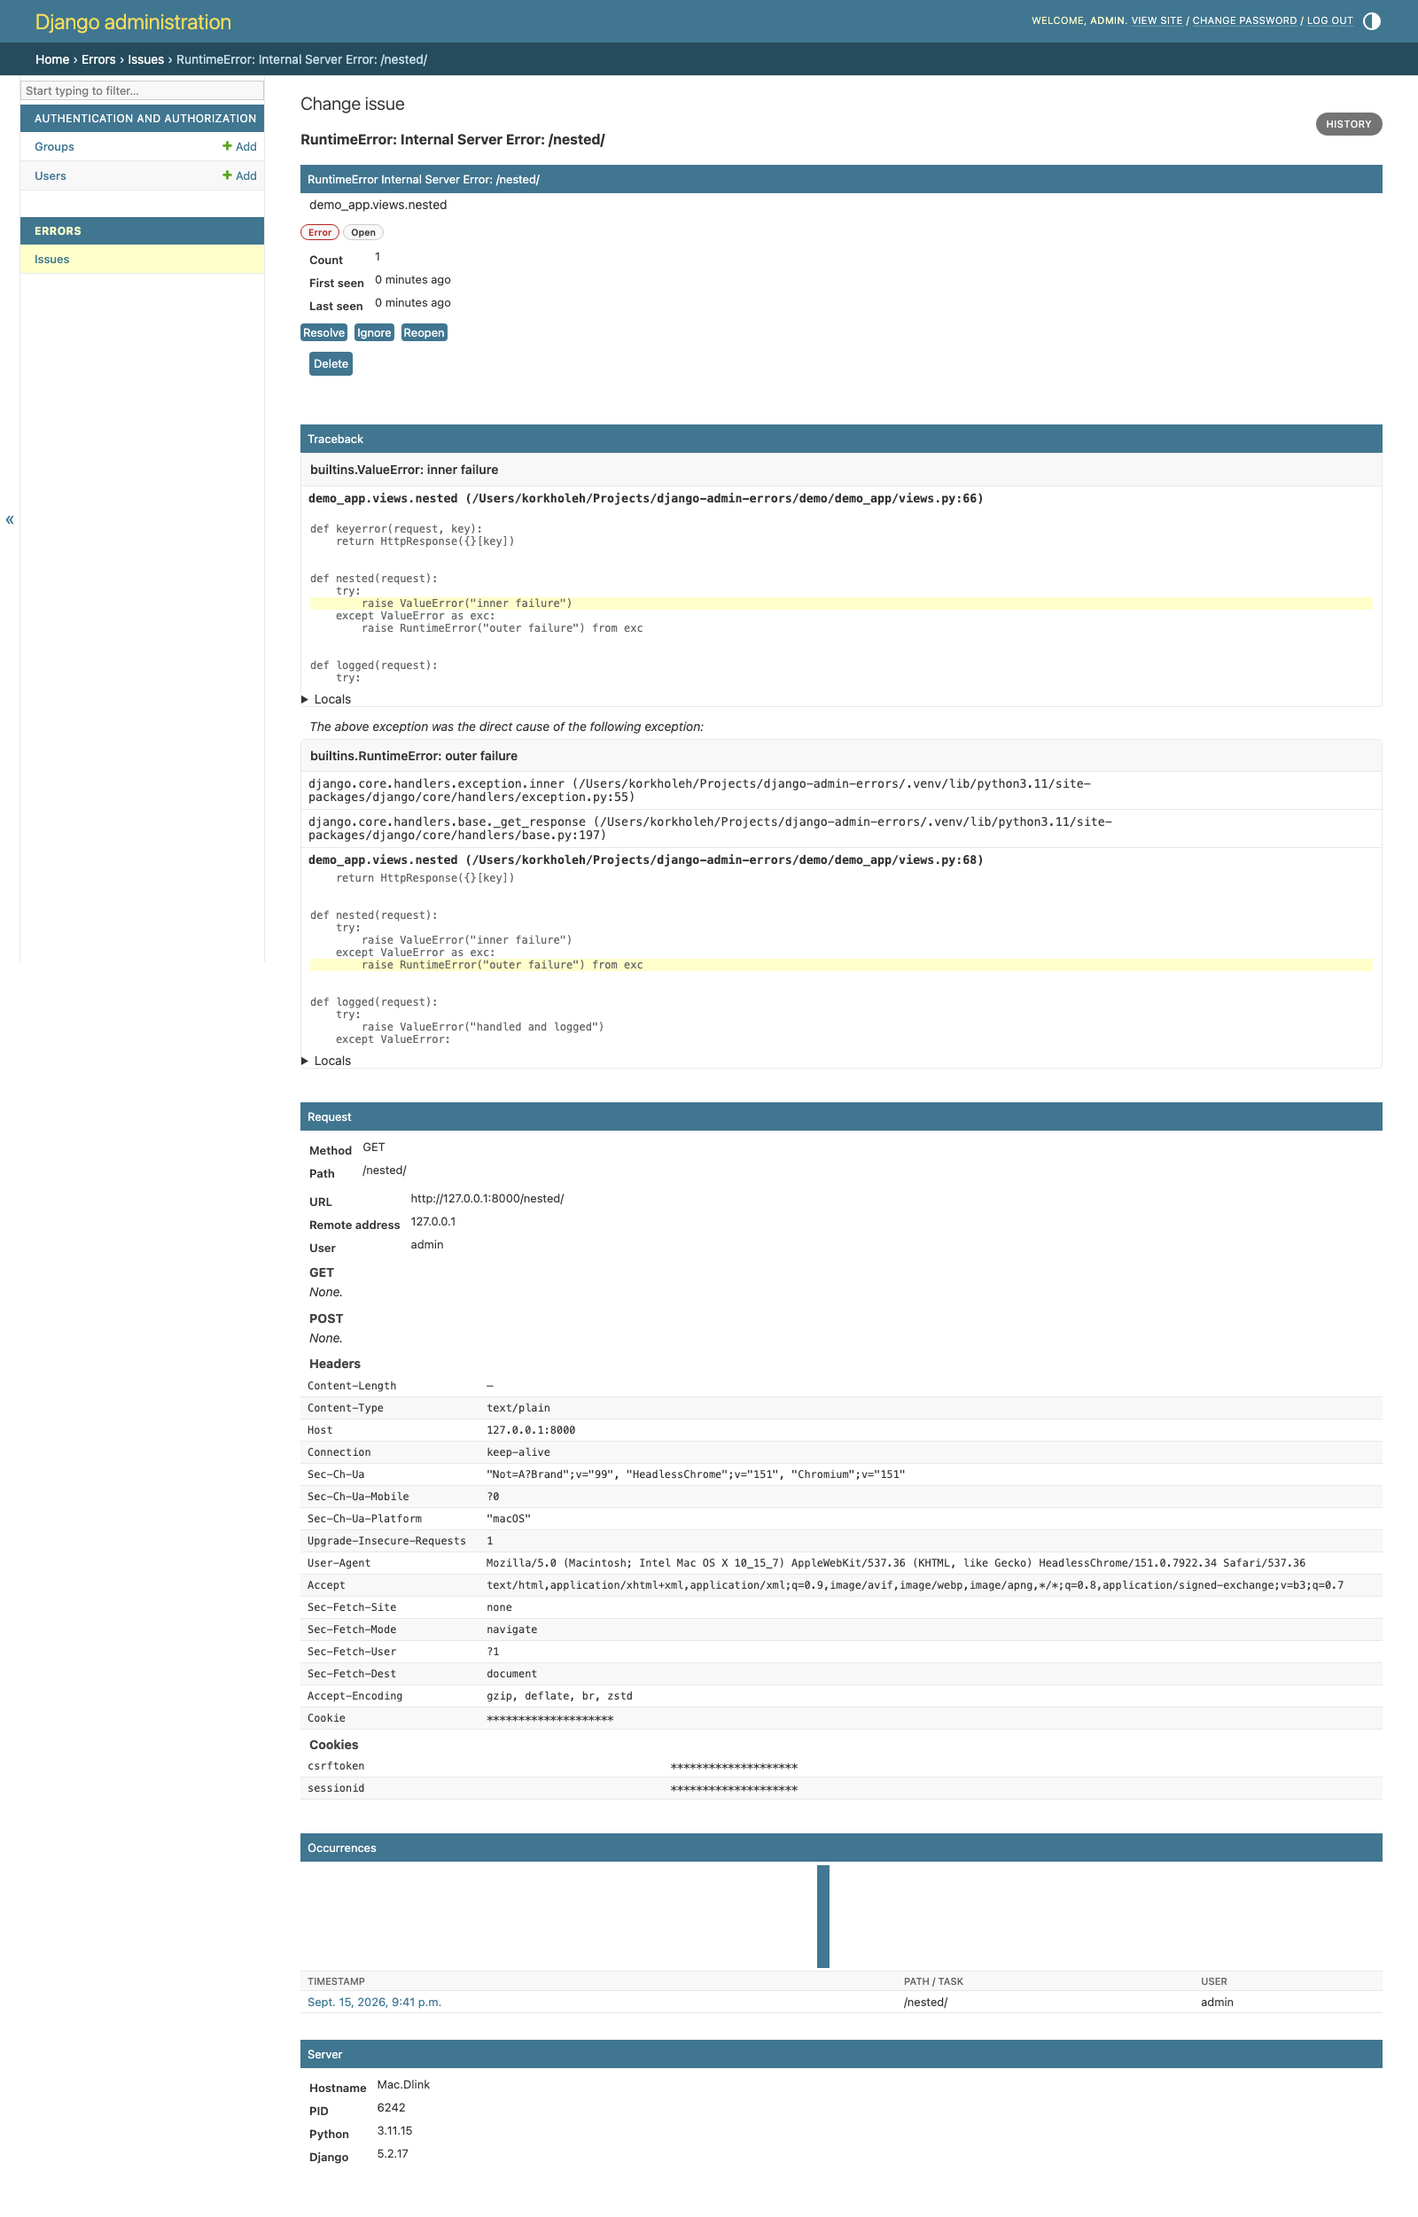
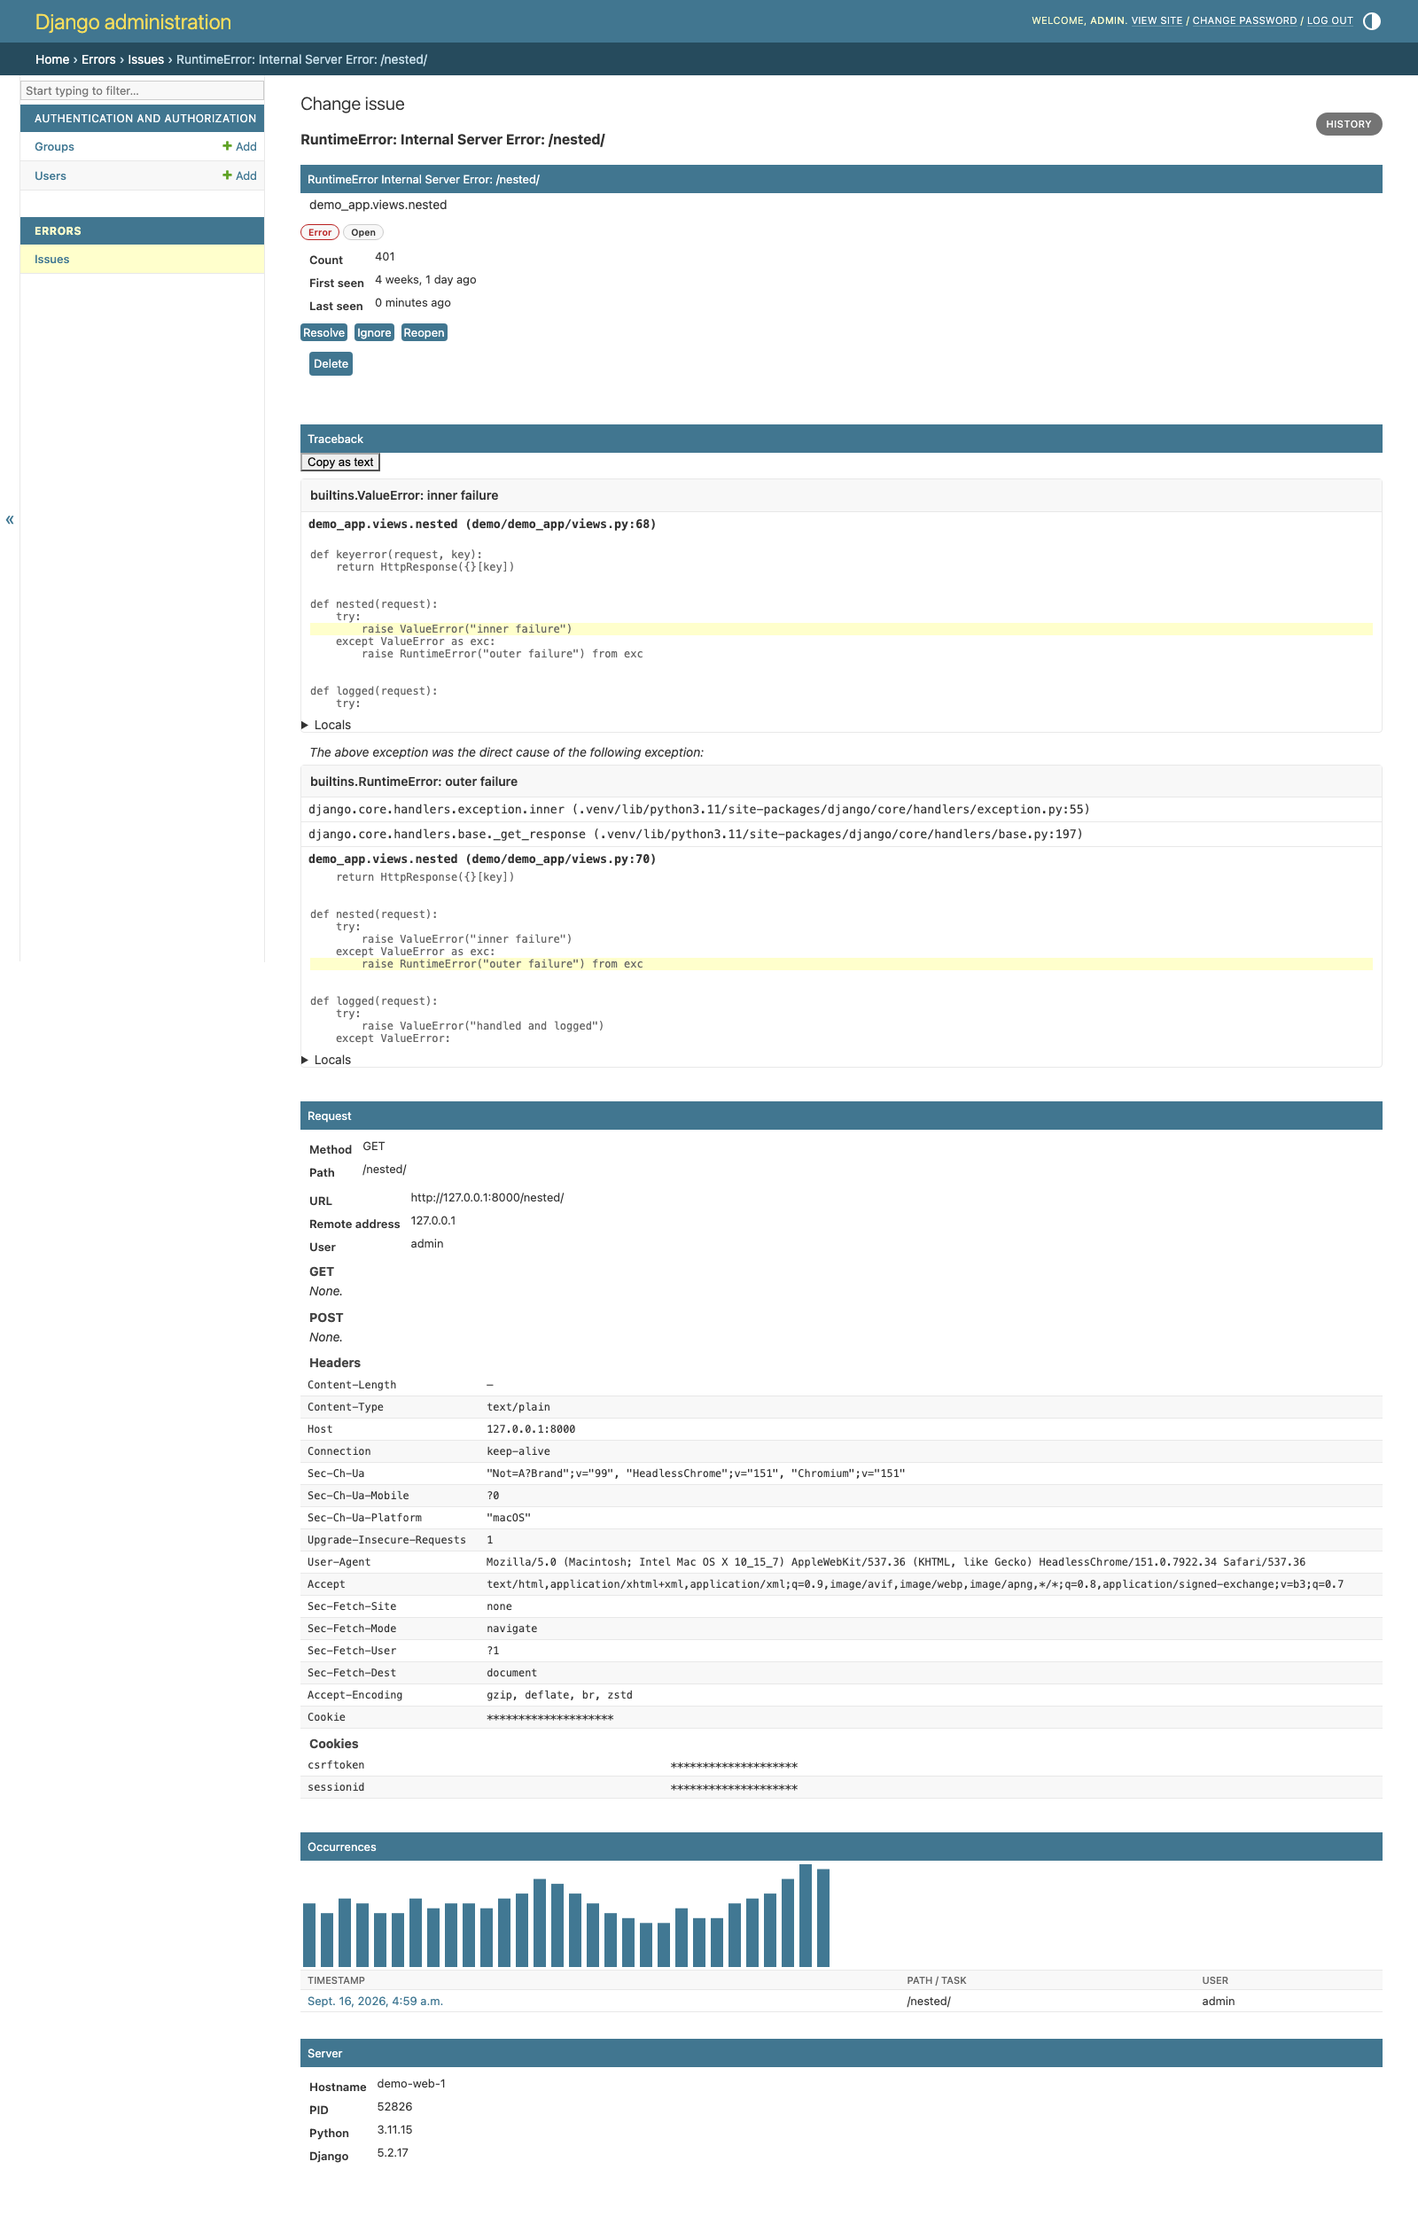
fix(demo): make the README screenshots worth showing
Five problems with the four tracked images, all in how they were captured:

1. The detail page was shot on a minutes-old /nested/ issue, so its
   occurrence chart was a single bar in an empty 30-day field — the one
   section that most needs data had none. demo_seed grows a new
   --backfill-history ISSUE_ID option that gives an existing issue a --days
   history of daily counts and leaves its events, payload and status alone,
   so the same issue keeps its chained exception and its scrubbed request
   block while gaining a chart with something in it.

2. Tracebacks showed absolute paths, which on any developer machine means a
   home directory and a username, and the Server block showed the machine's
   own hostname. The demo now sets BEFORE_SEND to demo_project.payload_tidy,
   which rewrites frame filenames under the repository root as relative ones
   and pins the hostname to demo-web-1. This is the demo using the library's
   documented extension point on itself, so it doubles as the worked example
   of that hook; it runs after the frames are built, so in_app is still
   decided from the real paths.

3. Light and dark were captured from two different moments, with different
   counts, different totals and a different top row — so the pair could not
   be read as one page in two themes. The data-changing steps now run once,
   before either theme, and each theme pass only navigates and screenshots.
[…]

diff --git a/e2e/test_screenshots.py b/e2e/test_screenshots.py
@@ -1,12 +1,29 @@
 """T14 (PLAN.md phase 8): README screenshots of the admin's Errors section, light and dark.
 
 Not a `[qa:...]`-tagged correctness case — this test's job is to produce
-`docs/img/issue-{list,detail}-{light,dark}.png` from the real seeded demo, driving `/nested/` (a
-chained exception, so the detail screenshot shows both blocks and the separator) and `/sensitive/`
-(so the list has a second, distinct issue) before capturing. The admin's default theme is "auto";
-a Playwright browser context's `color_scheme` flips it without touching any UI control.
+`docs/img/issue-{list,detail}-{light,dark}.png` from the real seeded demo.
+
+Three things the first version of this file got wrong, and what it does instead:
+
+* **One state, two themes.** The data-changing part (hitting `/nested/` and `/sensitive/`, then
+  backfilling the history) now runs once, before either theme is captured, and each theme pass
+  only navigates and screenshots. The light and dark pairs are the same page in two skins, which
+  is the entire point of showing both, rather than two separate moments with different counts.
+
+* **A detail page worth showing.** `/nested/` gives a chained exception (both blocks and the
+  "direct cause" separator) and a real request block with scrubbed cookies, but an issue that is
+  minutes old can only draw a single bar in the occurrence chart. `demo_seed --backfill-history`
+  gives that same issue a 30-day history without touching its events or payload, so one
+  screenshot shows the traceback, the scrubbed request *and* a chart with something in it.
+
+* **A list that fits a README.** `full_page=True` captured all 44 rows — 3500px tall, which a
+  README renders as an unreadable sliver. The list is now captured at the viewport, which holds
+  the summary cards, the filters and a dozen rows.
 """
 
+import os
+import subprocess
+import sys
 from pathlib import Path
 from urllib.parse import urljoin
 
@@ -16,21 +33,30 @@ pytest.importorskip("playwright.sync_api")
 
 from e2e.conftest import login, wait_until
 
-DOCS_IMG_DIR = Path(__file__).resolve().parent.parent / "docs" / "img"
+REPO_ROOT = Path(__file__).resolve().parent.parent
+DOCS_IMG_DIR = REPO_ROOT / "docs" / "img"
+
+# The admin's own `.results` wrapper is `overflow-x: auto`: at the default 1280px viewport the
+# issue table (with the Status/Trend columns) is wider than that wrapper, so a screenshot silently
+# clips them. 1600px is wide enough for the table to render without internal scrolling (measured
+# against the seeded demo). 1000px of height holds the summary cards, the search row and about a
+# dozen issues — enough to show what the page is, short enough to read in a README.
+VIEWPORT = {"width": 1600, "height": 1000}
+HISTORY_DAYS = 30
 
 
-def _capture_theme(browser, base_url: str, color_scheme: str) -> None:
-    # The admin's own `.results` wrapper is `overflow-x: auto`: at the default 1280px viewport the
-    # issue table (with the Status/Trend columns) is wider than that wrapper, so a `full_page`
-    # screenshot (which only extends the *vertical* capture) silently clips them. 1600px is wide
-    # enough for the table to render without internal scrolling (measured against the seeded demo).
-    viewport = {"width": 1600, "height": 1000}
-    context = browser.new_context(color_scheme=color_scheme, viewport=viewport)
+def _prepare_data(browser, base_url: str) -> str:
+    """Create the issues both themes are captured from. Returns the detail page's path."""
+    context = browser.new_context(viewport=VIEWPORT)
     page = context.new_page()
     try:
         login(page, base_url, "admin", "admin")
 
+        # /nested/ raises RuntimeError from an inner ValueError: the detail screenshot gets both
+        # exception blocks and the "The above exception was the direct cause" separator.
         page.goto(f"{base_url}/nested/")
+        # /sensitive/ posts a password, a token and an Authorization header, so the list has a
+        # second recent issue and the demo has a scrubbing case on screen.
         page.goto(f"{base_url}/sensitive/")
         page.fill('input[name="username"]', "demo-user")
         page.fill('input[name="password"]', "demo-password")
@@ -44,12 +70,45 @@ def _capture_theme(browser, base_url: str, color_scheme: str) -> None:
             lambda p: p.locator("#result_list tbody tr").count() >= 1,
         )
 
-        page.goto(list_url)
-        page.screenshot(path=str(DOCS_IMG_DIR / f"issue-list-{color_scheme}.png"), full_page=True)
-
         page.goto(f"{list_url}?q=nested")
-        href = page.locator("a.ae-issue-cell").first.get_attribute("href")
-        page.goto(urljoin(f"{base_url}/", href))
+        detail_path = page.locator("a.ae-issue-cell").first.get_attribute("href")
+    finally:
+        context.close()
+
+    issue_id = int(detail_path.rstrip("/").split("/")[-2])
+    # pytest-django exports DJANGO_SETTINGS_MODULE=tests.settings, and `demo/manage.py` only
+    # `setdefault`s its own, so an inherited environment would point this command at the test
+    # settings (and their database) instead of the demo's.
+    env = {**os.environ, "DJANGO_SETTINGS_MODULE": "demo_project.settings"}
+    subprocess.run(
+        [
+            sys.executable,
+            "demo/manage.py",
+            "demo_seed",
+            "--backfill-history",
+            str(issue_id),
+            "--days",
+            str(HISTORY_DAYS),
+        ],
+        cwd=REPO_ROOT,
+        env=env,
+        check=True,
+        capture_output=True,
+        text=True,
+    )
+    return detail_path
+
+
+def _capture_theme(browser, base_url: str, detail_path: str, color_scheme: str) -> None:
+    context = browser.new_context(color_scheme=color_scheme, viewport=VIEWPORT)
+    page = context.new_page()
+    try:
+        login(page, base_url, "admin", "admin")
+
+        page.goto(f"{base_url}/admin/admin_errors/issue/")
+        page.screenshot(path=str(DOCS_IMG_DIR / f"issue-list-{color_scheme}.png"))
+
+        page.goto(urljoin(f"{base_url}/", detail_path))
         page.screenshot(path=str(DOCS_IMG_DIR / f"issue-detail-{color_scheme}.png"), full_page=True)
     finally:
         context.close()
@@ -60,8 +119,9 @@ def test_generates_light_and_dark_screenshots(browser, base_url, server_availabl
     """Produces the four README screenshots; look at them and record the visual check."""
     DOCS_IMG_DIR.mkdir(parents=True, exist_ok=True)
 
+    detail_path = _prepare_data(browser, base_url)
     for color_scheme in ("light", "dark"):
-        _capture_theme(browser, base_url, color_scheme)
+        _capture_theme(browser, base_url, detail_path, color_scheme)
 
     for name in (
         "issue-list-light.png",

diff --git a/demo/demo_app/management/commands/demo_seed.py b/demo/demo_app/management/commands/demo_seed.py
@@ -97,11 +97,27 @@ class Command(BaseCommand):
         parser.add_argument(
             "--reset", action="store_true", help="Delete existing admin_errors rows first."
         )
+        parser.add_argument(
+            "--backfill-history",
+            type=int,
+            default=None,
+            metavar="ISSUE_ID",
+            help=(
+                "Give one existing issue a --days history of daily counts instead of seeding "
+                "new ones. Its events, payload and status are left alone, so an issue captured "
+                "from a real request keeps its request context and traceback while gaining the "
+                "occurrence chart a day-old issue cannot have."
+            ),
+        )
 
     def handle(self, *args: Any, **options: Any) -> None:
         n_issues = options["issues"]
         n_days = options["days"]
         alias = conf.DATABASE
+
+        if options["backfill_history"] is not None:
+            self._backfill_history(options["backfill_history"], n_days, alias)
+            return
 
         max_issues = len(_EXCEPTIONS) * len(_CULPRITS)
         if n_issues > max_issues:
@@ -189,6 +205,43 @@ class Command(BaseCommand):
         issue.count = total_count
         issue.status, issue.resolved_at = self._status_for(i, rng, first_seen, last_seen)
         issue.save(using=alias)
+
+    def _backfill_history(self, issue_id: int, n_days: int, alias: str) -> None:
+        """Give `issue_id` a `n_days` history of daily counts, leaving everything else intact.
+
+        `_seed_one` fabricates a whole issue; this only fabricates the part of one that time
+        alone can produce. `last_seen`, the stored events and the payload behind them are left
+        untouched, so an issue captured from a real request keeps its traceback, its scrubbed
+        request block and its place at the top of a `-last_seen` list while its occurrence chart
+        stops being the single bar a minutes-old issue can draw.
+        """
+        try:
+            issue = Issue.objects.using(alias).get(pk=issue_id)
+        except Issue.DoesNotExist:
+            raise CommandError(f"no issue with id {issue_id}") from None
+
+        rng = random.Random(_SEED)
+        last_date = issue.last_seen.date()
+        first_seen = timezone.make_aware(
+            datetime.datetime.combine(
+                last_date - datetime.timedelta(days=max(n_days - 1, 0)), datetime.time()
+            )
+        )
+
+        daily_counts = self._random_walk_daily_counts(rng, first_seen.date(), last_date)
+        IssueDailyCount.objects.using(alias).filter(issue=issue).delete()
+        IssueDailyCount.objects.using(alias).bulk_create(
+            IssueDailyCount(issue=issue, date=date, count=count)
+            for date, count in daily_counts.items()
+        )
+
+        issue.first_seen = first_seen
+        issue.count = sum(daily_counts.values())
+        issue.save(using=alias)
+        self.stdout.write(
+            f"backfilled {len(daily_counts)} day(s) onto issue {issue_id} "
+            f"({issue.exception_type}), count now {issue.count}"
+        )
 
     def _random_walk_daily_counts(
         self, rng: random.Random, start: datetime.date, end: datetime.date

diff --git a/demo/demo_project/payload_tidy.py b/demo/demo_project/payload_tidy.py
@@ -1,0 +1,54 @@
+"""`BEFORE_SEND` hook that makes the demo's payloads readable, and its screenshots portable.
+
+Frame filenames are absolute, so every traceback in the demo admin — and every README screenshot
+taken from it — carries the checkout's location, which on a developer machine means a home
+directory and a username. Nothing is hidden: the paths are rewritten relative to the repository
+root (`/Users/someone/src/django-admin-errors/demo/demo_app/views.py` becomes
+`demo/demo_app/views.py`, and a dependency becomes `.venv/lib/python3.11/site-packages/...`),
+which is also simply shorter to read.
+
+The server hostname is replaced for the same reason: `socket.gethostname()` is whatever the
+machine happens to be called, which is noise in a screenshot and differs on every machine the
+demo runs on. `DEMO_HOSTNAME` keeps that block stable and anonymous.
+
+This is not library behaviour, and `admin_errors` ships nothing like it: it is the demo using the
+documented `BEFORE_SEND` extension point (spec section 5) on itself, which doubles as the worked
+example of that hook. It runs after the frames are built, so `in_app` has already been decided
+from the real paths and the rewrite cannot change which frames the admin highlights
+(`admin_errors/capture.py`, `_apply_before_send`).
+"""
+
+from pathlib import Path
+from typing import Any
+
+REPO_ROOT = str(Path(__file__).resolve().parent.parent.parent) + "/"
+DEMO_HOSTNAME = "demo-web-1"
+
+
+def _shorten(filename: Any) -> Any:
+    if isinstance(filename, str) and filename.startswith(REPO_ROOT):
+        return filename[len(REPO_ROOT) :]
+    return filename
+
+
+def _shorten_frames(frames: Any) -> None:
+    if not isinstance(frames, list):
+        return
+    for frame in frames:
+        if isinstance(frame, dict) and "filename" in frame:
+            frame["filename"] = _shorten(frame["filename"])
+
+
+def tidy_payload(payload: dict, hint: dict) -> dict:
+    """Shorten absolute frame filenames and pin the reported hostname."""
+    _shorten_frames(payload.get("frames"))
+    exception = payload.get("exception")
+    if isinstance(exception, dict):
+        for link in exception.get("chain") or []:
+            if isinstance(link, dict):
+                _shorten_frames(link.get("frames"))
+
+    server = payload.get("server")
+    if isinstance(server, dict) and "hostname" in server:
+        server["hostname"] = DEMO_HOSTNAME
+    return payload

diff --git a/demo/demo_project/settings.py b/demo/demo_project/settings.py
@@ -114,6 +114,9 @@ ADMIN_ERRORS = {
     "EVENT_RETENTION_DAYS": 7,
     "MAX_ISSUES": 200,
     "INTERNAL_LOGGING": True,
+    # Worked example of the hook, and the reason the README screenshots carry no home directory:
+    # frame filenames under the repository root are stored relative to it. See the module.
+    "BEFORE_SEND": "demo_project.payload_tidy.tidy_payload",
 }
 
 LOGGING = {

diff --git a/CHANGELOG.md b/CHANGELOG.md
@@ -8,14 +8,8 @@ adheres to [Semantic Versioning](https://semver.org/spec/v2.0.0.html).
 
 ## [Unreleased]
 
-### Fixed
-
-- Demo: `/storm/` accepts `?tag=<value>`, which fingerprints the burst as `demo-storm-<tag>`
-  instead of grouping it with every earlier storm. The end-to-end storm case now passes a fresh
-  tag per run, so it no longer fails on a second run against a reused `runserver` process, where
-  the per-fingerprint `EVENT_SAMPLE_PER_HOUR` bucket — process-local, and not reset by deleting
-  the issue — had no tokens left and every occurrence arrived count-only. Test-only defect; the
-  library behaved as specified (spec section 7.2 step 5) throughout.
+- Demo: `/storm/?tag=` fingerprints a burst on its own, so the e2e storm case samples afresh on a reused server.
+- Demo: `demo_seed --backfill-history` and a `BEFORE_SEND` example; README screenshots regenerated.
 
 ## [0.1.0] — 2026-09-16
 
